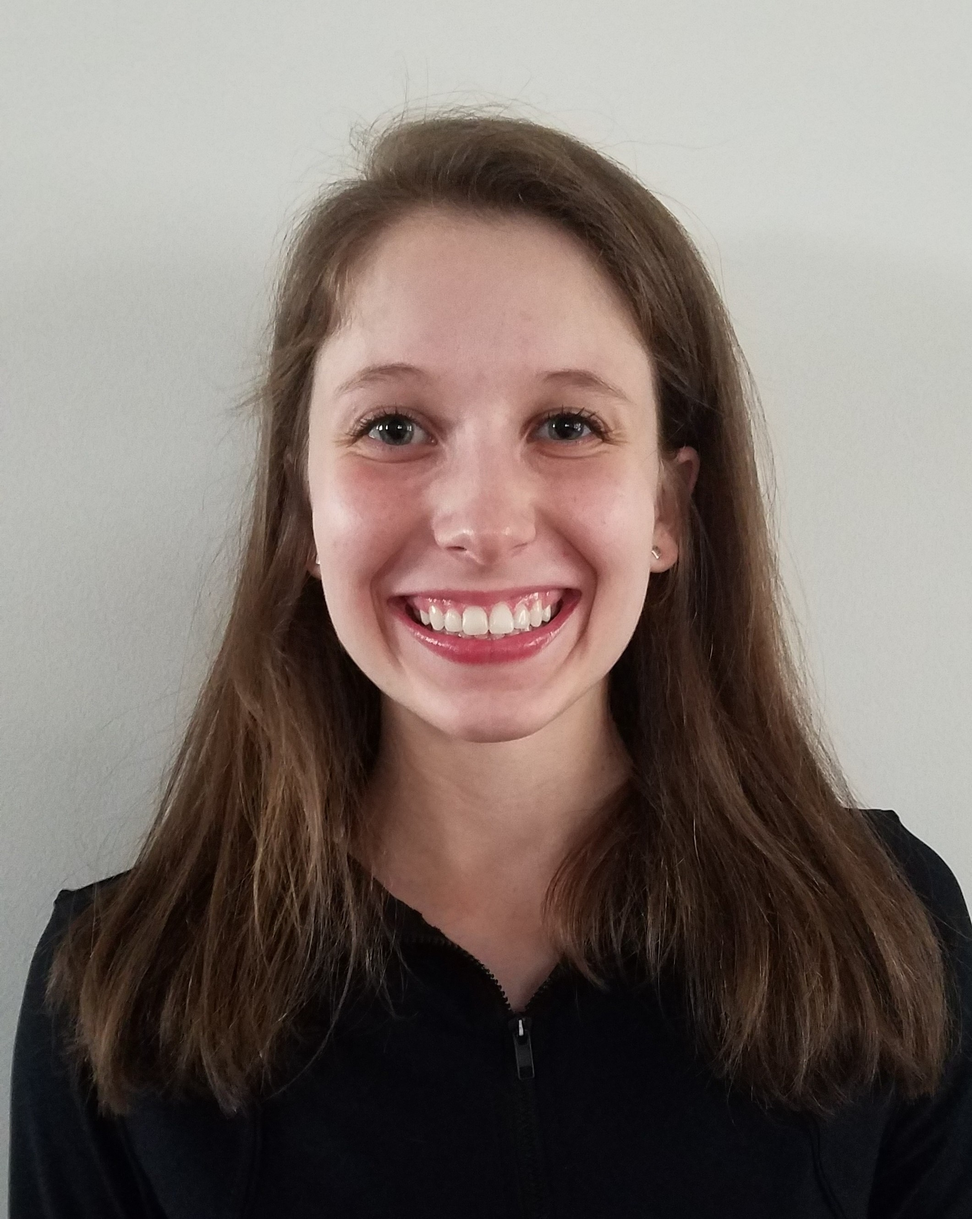
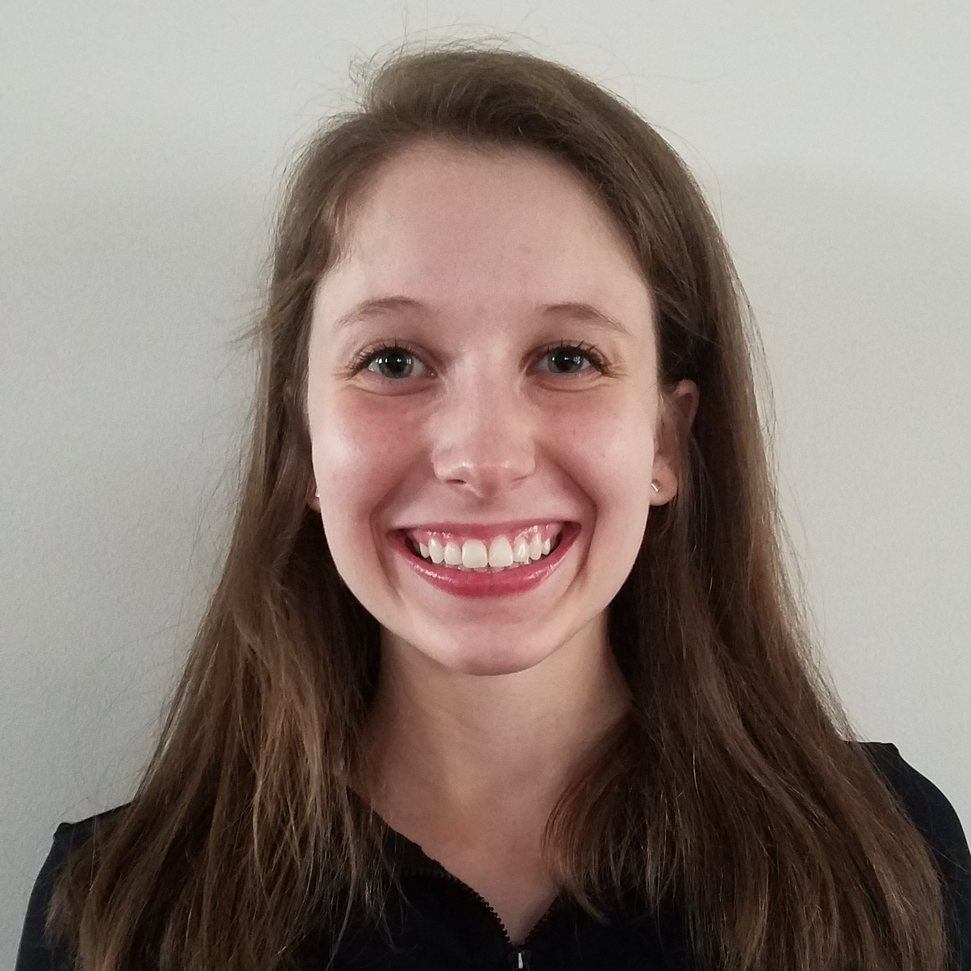
Formatted the about us page.

diff --git a/docs/aboutUs.html b/docs/aboutUs.html
@@ -1,64 +1,88 @@
 <!DOCTYPE html>
 <html>
 
-	<head>
-		<meta charset= "utf-8"/>
-		<meta name = "viewport" content = "width=device-width, intial-scale = 1"/>
-		
-		<title> St. Paul Crime </title>
-		<link rel="stylesheet" href="css/style.css">
-			<link rel="stylesheet"
-        href="https://cdnjs.cloudflare.com/ajax/libs/twitter-bootstrap/4.0.0-beta/css/bootstrap.min.css">
-		<link rel="stylesheet" href="https://unpkg.com/leaflet@1.2.0/dist/leaflet.css">
+<head>
+	<meta charset="utf-8" />
+	<meta name="viewport" content="width=device-width, intial-scale = 1" />
+
+	<title> St. Paul Crime </title>
+	<link rel="stylesheet" href="css/style.css">
+	<link rel="stylesheet"
+		href="https://cdnjs.cloudflare.com/ajax/libs/twitter-bootstrap/4.0.0-beta/css/bootstrap.min.css">
+	<link rel="stylesheet" href="https://unpkg.com/leaflet@1.2.0/dist/leaflet.css">
 
 
 
-	</head>
+</head>
 
-	<body>
-	<center><h1> About the Project </h1></center>
-	<center>
+<body>
+	<div class="container">
+		<h1> About the Project </h1>
 		<p>
-			<a href=" ./index.html">Home</b></a> | <b>About the Project</b> 
+			<a href=" ./index.html">Home</b></a> | <b>About the Project</b>
 		</p>
-	</center>
 
-	<br>
-	<center><h1> The Authors </h1></center></br>
-			<img src = "Tim.jpg"  alt = "Tim" width = "400px" height = "auto" />
-				<div class="name">
-					Tim Callies: I am a computer science student with an interest in computer graphics and animation.
-					Recently I have worked as an intern for the Talent Development Program at Optum.
-					I will be returning there next year for a full-time position.
-				</div>
-			<br><img src = "Rachel.jpg"  alt = "Rachel" width = "400px" height = "auto" />
-			<div class="name">Rachel Rautio
-				 Hello! I'm a current senior at the University of St. Thomas studying computer science. After graduation I will be an Officer in the United States Air Force. </div></br>
+		<br>
+		<h1> The Authors </h1>
+		<div class="row">
+			<div class="col">
+				<img src="Tim.jpg" alt="Tim" width="100%" />
+
+			</div>
+			<div class="col-10">
+				<h4>Tim Callies</h4>
+				I am a computer science student with an interest in computer graphics and animation.
+				Recently I have worked as an intern for the Talent Development Program at Optum.
+				I will be returning there next year for a full-time position.
+			</div>
+		</div>
+
+		<div class="row">
+			<div class="col">
+				<img src="Rachel.jpg" alt="Rachel" width="100%" />
+			</div>
+			<div class="col-10">
+				<h4>Rachel Rautio</h4>
+				Hello! I'm a current senior at the University of St. Thomas studying computer science. After graduation
+				I will be an Officer in the United States Air Force.
+			</div>
+		</div>
 
 
-	<br><br> <center><h1> Tools Used </h1></center></br></br>
-	
-	<ul>
-			<li> Leaflet ~ Leaflet is an JavaScript library that allows developers to easily put interactive maps on their websites.</li>
-			<li> Nominatim API ~ Nominatim is an API that is used for looking up addresses or coordinates and providing information about hte location. </li>
-			<li> St. Paul Crime API ~ This is an API we developed that allows a client to look through a database of crimes that have occurred in the St. Paul area. </li>
-			<li> VueJS ~ Vue is a reactive JavaScript framework that is used to fill our table with data and apply filters in response to user input. </li>
-	</ul>
+		<h1> Tools Used </h1>
 
-	
-	<br><br> <center><h1> Video Demostration </h1></center></br></br>
-	<center><p> video goes here </p></center>
+		<ul>
+			<li> Leaflet ~ Leaflet is an JavaScript library that allows developers to easily put interactive maps on
+				their
+				websites.</li>
+			<li> Nominatim API ~ Nominatim is an API that is used for looking up addresses or coordinates and providing
+				information about hte location. </li>
+			<li> St. Paul Crime API ~ This is an API we developed that allows a client to look through a database of
+				crimes
+				that have occurred in the St. Paul area. </li>
+			<li> VueJS ~ Vue is a reactive JavaScript framework that is used to fill our table with data and apply
+				filters
+				in response to user input. </li>
+		</ul>
 
 
-	<br><br> <center><h1> Interesting Findings </h1></center></br></br>
-<ol>
+		<h1> Video Demostration </h1>
+		<p> video goes here </p>
+
+
+		<h1> Interesting Findings </h1>
+		<ol>
 			<li> Macalster-Groveland, the neighborhood housing our school, has the least amount of crime </li>
 			<li> Majority of the crimes within this data are from proactive police visits </li>
 			<li> Union Park has majority theft cases </li>
 			<li> West Seventh neighborhood has more narcotic use and assault than other neighborhoods </li>
-			<li> Payne-Phalen is the most violent neighborhood, home to majority of the highest crime classifications  </li>
-			<li> There is significantly more reported crime at 6pm than 6am, almost ten times the amount of crime compared to the morning </li>
-	</ol>
+			<li> Payne-Phalen is the most violent neighborhood, home to majority of the highest crime classifications
+			</li>
+			<li> There is significantly more reported crime at 6pm than 6am, almost ten times the amount of crime
+				compared
+				to the morning </li>
+		</ol>
+	</div>
 </body>
 
 </html>

diff --git a/docs/index.html b/docs/index.html
@@ -16,6 +16,8 @@
 
     <title> St. Paul Crime </title>
     <link rel="stylesheet" href="css/style.css">
+	<meta name="viewport" content="width=device-width, intial-scale = 1" />
+
     <link rel="stylesheet"
         href="https://cdnjs.cloudflare.com/ajax/libs/twitter-bootstrap/4.0.0-beta/css/bootstrap.min.css">
     <link rel="stylesheet" href="https://unpkg.com/leaflet@1.2.0/dist/leaflet.css">
